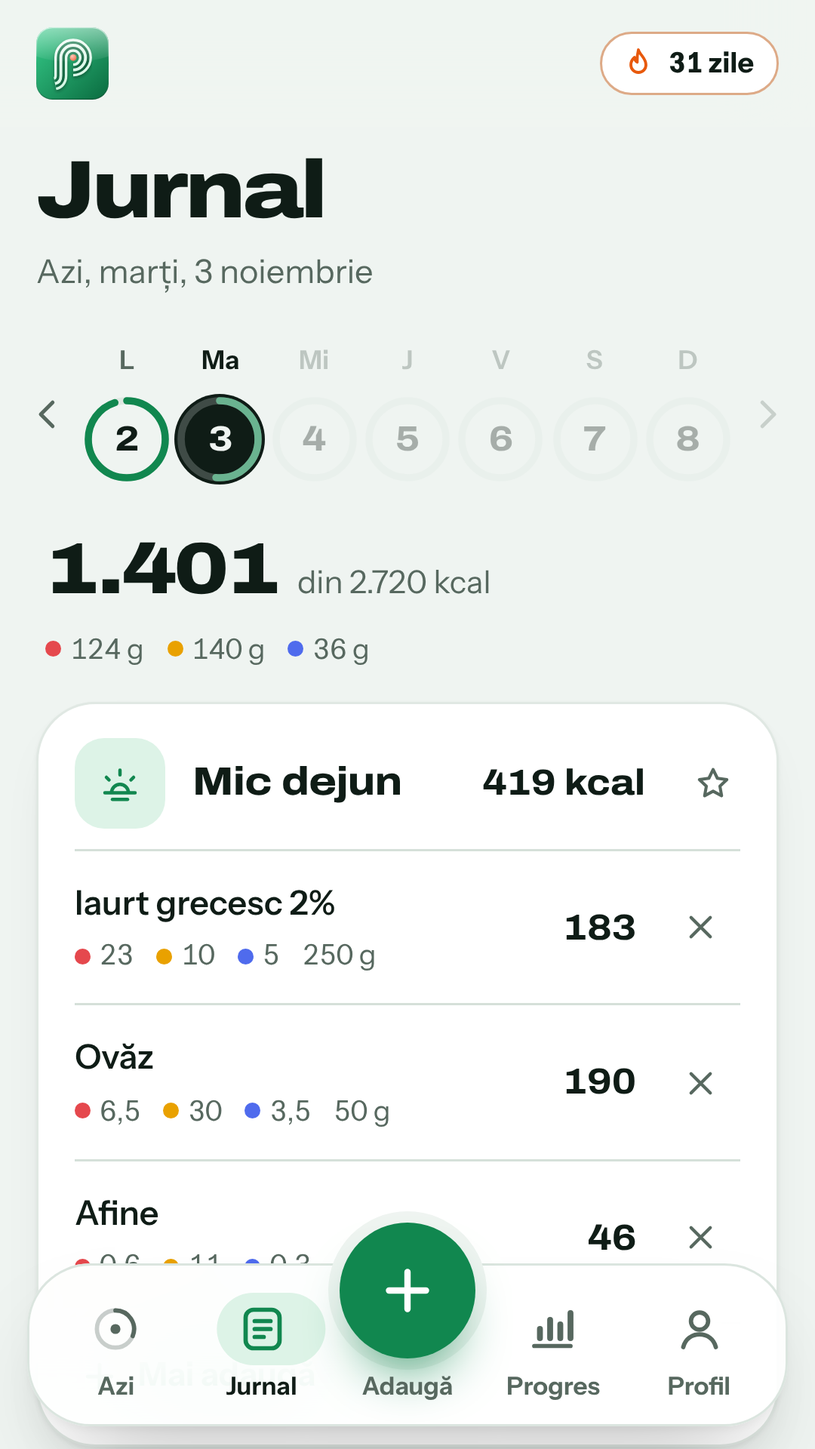
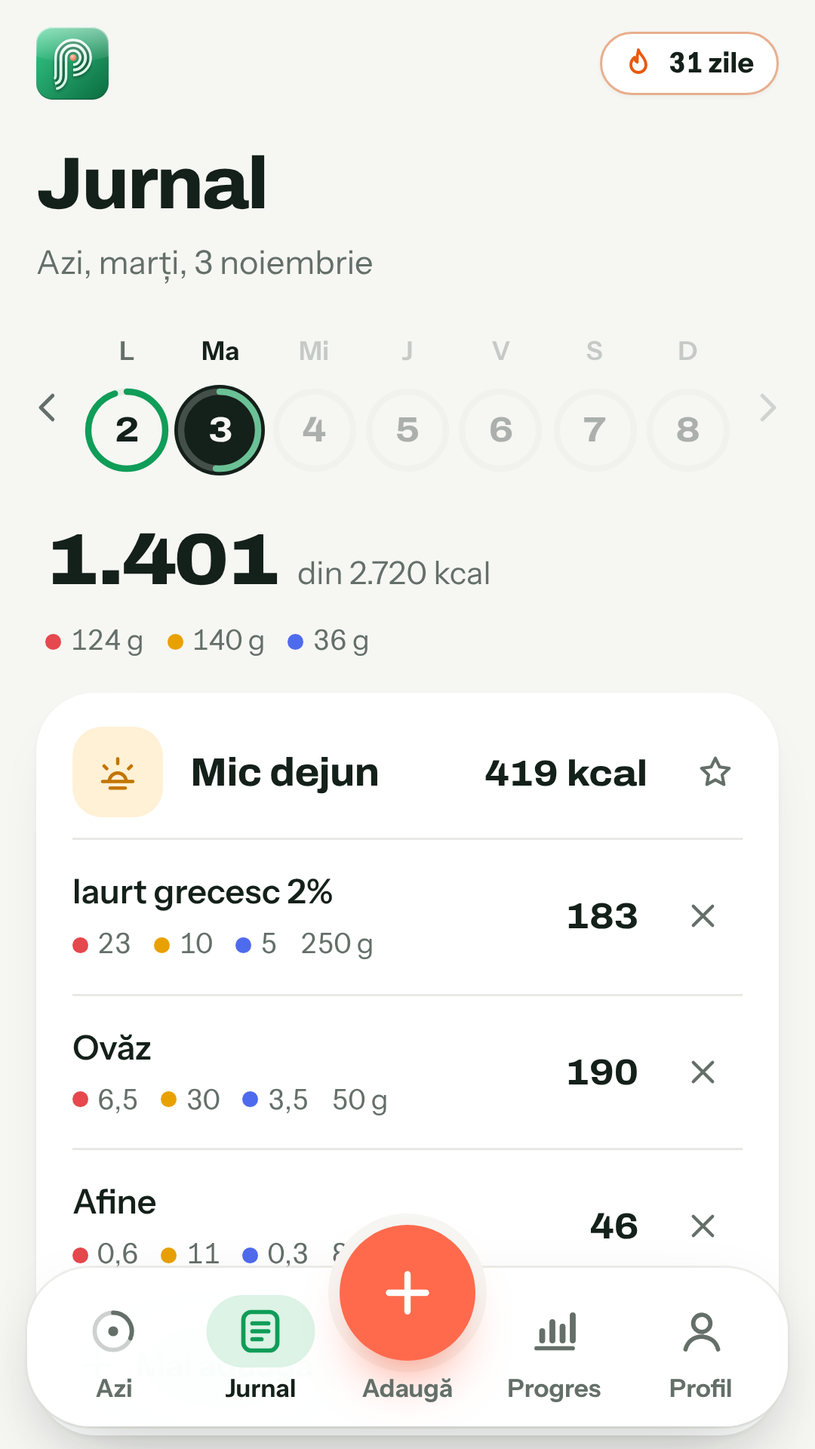
Design Proaspăt rafinat cu cadranul de calorii
Caloriile zilei sunt acum un cadran desenat ca logoul: inel verde,
punctul coral la capăt și liniuțe care se aprind pe măsură ce mănânci.
La deschidere cadranul se umple și cifra numără până la valoare; o
atingere comută între rămase, mâncate și procent, iar alegerea rămâne.
Macronutrienții sunt trei cadrane mici.

Fundal alb cald, carduri cu umbre fine în loc de chenare, o culoare
pentru fiecare masă (și în jurnal), butonul de adăugare coral în temele
casei, grafic de progres cu bare subțiri, profilul pe card alb. Fiecare
temă își pune pe cadran culoarea punctului din logo.

Capturile pentru magazine sunt refăcute.

Claude-Session: https://claude.ai/code/session_01THEXYzYb5U7JoghRZLky4L

diff --git a/js/app.js b/js/app.js
@@ -45,8 +45,8 @@ const THEMES = {
     light:{ bg:'#F4F2F0', surface:'#FFFFFF', sunk:'#EAE6E2', ink:'#1A1512', muted:'#6B6058', line:'#E2DCD6', track:'#ECE7E2', kcal:'#DD4A14', 'kcal-soft':'#FFE6DB', 'on-kcal':'#FFFFFF', prot:'#D6336C', carb:'#F2B705', fat:'#159A8C', water:'#2D8FD8', over:'#B3261E', 'toast-bg':'#1A1512', 'toast-fg':'#F4EEE9', 'toast-act':'#FFB38F' },
     dark:{ bg:'#100D0B', surface:'#1B1714', sunk:'#25201C', ink:'#F4EEE9', muted:'#A39A92', line:'#2F2925', track:'#2C2622', kcal:'#FF6B33', 'kcal-soft':'#3A2218', 'on-kcal':'#160F0B', prot:'#FF5C8D', carb:'#FFCB2E', fat:'#34C7B5', water:'#5AB2F2', over:'#FF5A4E', 'toast-bg':'#F4EEE9', 'toast-fg':'#1A1512', 'toast-act':'#C2410C' } },
   proaspat: { t:'Proaspăt', d:'verde și coral, sănătos', free:true, logo:{ bg1:'#36CC8A', bg2:'#0A6B3F', s1:'#FFFFFF', s2:'#CDF5DF', dot:'#F0603A', dot2:'#FFC3AF' },
-    light:{ bg:'#EFF4F1', surface:'#FFFFFF', sunk:'#E2EAE5', ink:'#0F1C16', muted:'#57685F', line:'#D5E0D9', track:'#DFE8E2', kcal:'#11874F', 'kcal-soft':'#DDF3E7', 'on-kcal':'#FFFFFF', prot:'#E5484D', carb:'#E9A100', fat:'#4F6BED', water:'#14A3C7', over:'#E8590C', 'toast-bg':'#0F1C16', 'toast-fg':'#E9F2EC', 'toast-act':'#8FE3B5' },
-    dark:{ bg:'#0A110E', surface:'#131C17', sunk:'#1A2620', ink:'#E9F2EC', muted:'#8FA398', line:'#22302A', track:'#21302A', kcal:'#3DD68C', 'kcal-soft':'#173426', 'on-kcal':'#06120C', prot:'#FF6B6F', carb:'#FFC233', fat:'#7D93FF', water:'#4CCFEA', over:'#FF8A3D', 'toast-bg':'#E9F2EC', 'toast-fg':'#0F1C16', 'toast-act':'#11874F' } },
+    light:{ bg:'#F6F6F3', surface:'#FFFFFF', sunk:'#EFF0EC', ink:'#14201A', muted:'#646F69', line:'#E8E9E4', track:'#E9EBE6', kcal:'#0F9D58', 'kcal-soft':'#DCF3E6', 'on-kcal':'#FFFFFF', prot:'#E5484D', carb:'#E9A100', fat:'#4F6BED', water:'#14A3C7', over:'#E8590C', 'toast-bg':'#0B1410', 'toast-fg':'#E9F2EC', 'toast-act':'#8FE3B5' },
+    dark:{ bg:'#0C0F0E', surface:'#161A18', sunk:'#1E2320', ink:'#EEF3EF', muted:'#94A19A', line:'#242B27', track:'#232A26', kcal:'#4ADE8E', 'kcal-soft':'#123222', 'on-kcal':'#03100A', prot:'#FF6B78', carb:'#FFC54D', fat:'#8296FF', water:'#4CCFEA', over:'#FF8A3D', 'toast-bg':'#ECF4EF', 'toast-fg':'#0B1410', 'toast-act':'#0E9C59' } },
   premium: { t:'Regal', d:'bleumarin și auriu, calm', logo:{ bg1:'#2E3F8A', bg2:'#0A0F2E', chrome:'blue', glow:'#6F84FF', dot:'#C2902A', dot2:'#FFE7A8' },
     light:{ bg:'#F1F2F6', surface:'#FFFFFF', sunk:'#E6E8EF', ink:'#141A33', muted:'#5D6580', line:'#DADDE7', track:'#E3E6EE', kcal:'#1F2C66', 'kcal-soft':'#E4E7F3', 'on-kcal':'#FFFFFF', prot:'#C2416B', carb:'#C9972B', fat:'#2F8F7E', water:'#3B82C4', over:'#E8590C', 'toast-bg':'#141A33', 'toast-fg':'#F3F1EA', 'toast-act':'#E3C26B' },
     dark:{ bg:'#0A0D1A', surface:'#131829', sunk:'#1B2136', ink:'#EEF0F7', muted:'#9298B0', line:'#252C44', track:'#232A40', kcal:'#A8B6FF', 'kcal-soft':'#232B4D', 'on-kcal':'#0A0D1A', prot:'#F07198', carb:'#E3B652', fat:'#4CC2AA', water:'#62A8E8', over:'#FF8A4C', 'toast-bg':'#EEF0F7', 'toast-fg':'#141A33', 'toast-act':'#1F2C66' } },
@@ -161,7 +161,10 @@ function themeCss(id){
   const t = THEMES[id]; if (!t) return '';
   if (!t.light) return '';
   const d = tokCss(liftDark(t.dark, shadeAmt()));
-  return ':root{' + tokCss(t.light) + '}@media (prefers-color-scheme: dark){:root:not([data-theme="light"]){' + d + 'color-scheme:dark}}:root[data-theme="dark"]{' + d + 'color-scheme:dark}';
+  // the logo's dot colour rides the dial; the house themes use it for the main action too
+  const warm = id === 'proaspat' || id === 'craciun';
+  const extra = '--dot:' + (t.logo.dot || '#FF6A4D') + ';' + (warm ? '--act:#FF6A4D;--on-act:#FFFFFF;' : '');
+  return ':root{' + tokCss(t.light) + extra + '}@media (prefers-color-scheme: dark){:root:not([data-theme="light"]){' + d + 'color-scheme:dark}}:root[data-theme="dark"]{' + d + 'color-scheme:dark}';
 }
 const P_PATH = 'M 26 78 C 31 77 34 73 34 67 L 34 42 A 17 17 0 1 1 51 59';
 const SHEEN_PATH = 'M 0 22.5 A 22.5 22.5 0 0 1 22.5 0 L 77.5 0 A 22.5 22.5 0 0 1 100 22.5 L 100 40 C 72 50 28 50 0 40 Z';
@@ -547,7 +550,7 @@ const S = {
   theme: 'proaspat', isOwner: true, previewing: false, plan: 'year', tier: 'plus', unsubs: [],
   appearance: lsGet('portia-appearance') || 'auto', darkShade: lsGet('portia-dark') || 'noapte', hostTheme: null, modeSet: null,
   library: { recipes: [], favorites: [], reports: [], products: [] }, bc: null, bcCtl: null, libRef: null, mini: null, rdraft: null, rctl: null, repCtl: null,
-  screen: '', lastMain: 'azi', scrollY: {}, heroDrawn: false, profSec: null, profScroll: 0, hero: null, heroRaf: 0
+  screen: '', lastMain: 'azi', scrollY: {}, heroDrawn: false, dialMode: [0, 1, 2].includes(lsGet('portia-dial')) ? lsGet('portia-dial') : 0, profSec: null, profScroll: 0, hero: null, heroRaf: 0
 };
 function fallbackToLocal(){
   if (S.mode !== 'cloud') return;
@@ -2805,29 +2808,55 @@ function renderHero(){
   const nb = S.loaded && S.newBadge && Date.now() < S.newBadge.until ? S.newBadge : null;
   const T = targetsFor(S.view), t = dayTotals(S.days[S.view]);
   const rem = T.kcal - t.kcal, over = rem < 0;
-  const R = 52, C = 2 * Math.PI * R, frac = T.kcal ? Math.min(1, t.kcal / T.kcal) : 0;
+  const frac = T.kcal ? Math.min(1, t.kcal / T.kcal) : 0;
   const pct = T.kcal ? Math.round(t.kcal / T.kcal * 100) : 0;
   const remP = Math.round(T.protein - t.protein);
   const showIdeas = !S.aiOff && S.view === todayKey() && rem > 150;
   const dayChip = T.type ? '<button class="hc-chip daytype ' + T.type + '" data-action="toggle-daytype" aria-label="' + (T.type === 'train' ? 'Zi de sală' : 'Zi de pauză') + '. Atinge ca să schimbi tipul zilei."><i></i>' + (T.type === 'train' ? 'Zi de sală · +' + fmt(T.delta) : 'Zi de pauză · −' + fmt(-T.delta)) + ' kcal</button>' : '';
-  const first = !S.heroDrawn && frac > 0; if (frac > 0) S.heroDrawn = true;
-  el.className = 'hero-card' + (over ? ' is-over' : '') + (first ? ' first' : '');
+  const D = dialFace(S.dialMode, { rem, over, eaten: t.kcal, target: T.kcal, pct });
+  el.className = 'hero-card' + (over ? ' is-over' : '');
   el.innerHTML =
-    '<div class="hc-top"><span class="hc-label">' + (over ? 'Peste țintă' : 'Calorii rămase') + '</span>' + dayChip + '</div>' +
+    (dayChip || nb ? '<div class="hc-top">' + dayChip + '</div>' : '') +
     (nb ? '<button class="newbadge" data-action="open-badges">' + bIcon(nb.icon, 18) + '<span>' + (nb.many ? 'Ai îndeplinit <b>' + nb.many + ' provocări</b> noi' : 'Provocare îndeplinită: <b>' + esc(nb.t) + '</b>') + '</span><em>Vezi</em></button>' : '') +
-    '<div class="hc-main">' +
-      '<div class="hc-num"><span class="big-num">' + (over ? '+' : '') + fmt(Math.abs(rem)) + '</span><span class="hc-sub"><b>' + fmt(t.kcal) + '</b> din <b>' + fmt(T.kcal) + '</b> kcal</span><span class="hc-kj">Ținta în kJ: ' + fmt(T.kcal * 4.184) + '</span></div>' +
-      '<div class="ringwrap"><svg viewBox="0 0 120 120" aria-hidden="true"><defs><linearGradient id="hcGrad" x1="0" y1="1" x2="1" y2="0"><stop offset="0" style="stop-color:var(--hc-acc2)"/><stop offset="1" style="stop-color:var(--hc-acc)"/></linearGradient></defs>' +
-        '<circle class="r-trk" cx="60" cy="60" r="' + R + '"/>' +
-        (frac > 0 ? '<circle class="r-val" cx="60" cy="60" r="' + R + '" stroke-dasharray="' + C.toFixed(2) + '" stroke-dashoffset="' + (C * (1 - frac)).toFixed(2) + '" style="--c0:' + C.toFixed(2) + '"/>' : '') +
-      '</svg><div class="ring-center"><b>' + pct + '<small>%</small></b><span>din țintă</span></div></div>' +
-    '</div>' +
-    '<div class="hc-bars">' + macroBar('p', 'Proteine', t.protein, T.protein) + macroBar('c', 'Glucide', t.carbs, T.carbs) + macroBar('f', 'Grăsimi', t.fat, T.fat) + '</div>' +
+    '<button class="dial" data-action="dial" aria-label="' + esc(D.aria) + '. Atinge ca să vezi ' + DIAL_NEXT[S.dialMode] + '.">' +
+      '<svg viewBox="0 0 240 240" aria-hidden="true" style="--p:' + frac.toFixed(4) + '">' +
+        '<defs><linearGradient id="dialGrad" x1="0" y1="0" x2="1" y2="1"><stop offset="0" style="stop-color:var(--hc-acc)"/><stop offset="1" style="stop-color:var(--hc-acc2)"/></linearGradient></defs>' +
+        DIAL_TICKS +
+        '<circle class="r-trk" cx="120" cy="120" r="96"/>' +
+        '<circle class="r-val" cx="120" cy="120" r="96"/>' +
+        '<g class="d-knob"><circle cx="120" cy="24" r="9"/><circle class="d-knob-in" cx="120" cy="24" r="3.4"/></g>' +
+      '</svg>' +
+      '<span class="d-center"><span class="hc-label d-label">' + D.label + '</span><b class="big-num">' + D.big + '</b><span class="hc-sub">' + D.sub + '</span>' +
+        '<span class="d-dots" aria-hidden="true">' + [0, 1, 2].map(i => '<i' + (i === S.dialMode ? ' class="on"' : '') + '></i>').join('') + '</span></span>' +
+    '</button>' +
+    '<div class="hc-macros">' + macroRing('p', 'Proteine', t.protein, T.protein) + macroRing('c', 'Glucide', t.carbs, T.carbs) + macroRing('f', 'Grăsimi', t.fat, T.fat) + '</div>' +
     (showIdeas ? '<div class="hc-foot"><p>' + (remP > 0 ? 'Mai ai ' + fmt(remP) + ' g proteine de luat azi.' : 'Ai atins proteinele de azi.') + '</p><button class="btn hc-btn" data-action="ideas">Idei pentru ' + mealName(S.meal).toLowerCase() + '</button></div>' : '');
   const f3 = (e, t) => t ? Math.min(1, e / t) : 0;
-  heroTween(S.hero, { k: S.view, rem, pct, frac, f: [f3(t.protein, T.protein), f3(t.carbs, T.carbs), f3(t.fat, T.fat)] });
+  heroTween(S.hero, { k: S.view, mode: S.dialMode, rem, eaten: t.kcal, target: T.kcal, over, pct, frac, f: [f3(t.protein, T.protein), f3(t.carbs, T.carbs), f3(t.fat, T.fat)] });
 }
-// When the numbers change (a meal added, another day picked), count them and grow the ring and bars from where they were
+/* The dial: the day's calories as one instrument. Its ring and coral dot are the logo; ticks light up as the day fills.
+   A tap switches what the centre says: what's left, what's eaten, how much of the target. */
+const DIAL_TICKS = (() => {
+  let base = '', lit = '';
+  for (let i = 0; i < 60; i++){
+    const a = i / 60 * 2 * Math.PI, major = i % 5 === 0, r1 = major ? 106 : 109, r2 = 117;
+    const x1 = (120 + r1 * Math.sin(a)).toFixed(2), y1 = (120 - r1 * Math.cos(a)).toFixed(2), x2 = (120 + r2 * Math.sin(a)).toFixed(2), y2 = (120 - r2 * Math.cos(a)).toFixed(2);
+    const l = '<line x1="' + x1 + '" y1="' + y1 + '" x2="' + x2 + '" y2="' + y2 + '"' + (major ? ' class="mj"' : '');
+    base += l + '/>';
+    lit += l + ' style="--i:' + (i / 60).toFixed(4) + '"/>';
+  }
+  return '<g class="tk-base">' + base + '</g><g class="tk-lit">' + lit + '</g>';
+})();
+const DIAL_NEXT = ['cât ai mâncat', 'procentul din țintă', 'cât mai ai'];
+function dialFace(mode, v){
+  if (mode === 1) return { label: 'mâncate', big: fmt(v.eaten), sub: 'din <b>' + fmt(v.target) + '</b> kcal', aria: 'Ai mâncat ' + fmt(v.eaten) + ' din ' + fmt(v.target) + ' kcal' };
+  if (mode === 2) return { label: 'din țintă', big: v.pct + '<small>%</small>', sub: '<b>' + fmt(v.eaten) + '</b> din <b>' + fmt(v.target) + '</b> kcal', aria: 'Ai ajuns la ' + v.pct + '% din țintă' };
+  return { label: v.over ? 'peste țintă' : 'rămase', big: (v.over ? '+' : '') + fmt(Math.abs(v.rem)), sub: '<b>' + fmt(v.eaten) + '</b> din <b>' + fmt(v.target) + '</b> kcal', aria: (v.over ? 'Ești cu ' + fmt(-v.rem) + ' kcal peste țintă' : 'Mai ai ' + fmt(v.rem) + ' kcal') + ', ai mâncat ' + fmt(v.eaten) + ' din ' + fmt(v.target) };
+}
+const dialValue = (mode, v) => mode === 1 ? v.eaten : mode === 2 ? v.pct : v.rem;
+function dialNumber(mode, n){ return mode === 2 ? n + '<small>%</small>' : (n < 0 ? '+' : '') + fmt(Math.abs(n)); }
+// When the numbers change (a meal added, another day picked), count them and turn the dial from where it was.
+// The first time the day is shown, the dial sweeps up from zero.
 function heroTween(prev, cur){
   S.hero = cur;
   // crossing a target by adding food today, not by opening another day
@@ -2835,36 +2864,43 @@ function heroTween(prev, cur){
     if (prev.f[0] < 1 && cur.f[0] >= 1) cheer('protein');
     else if (prev.pct < 95 && cur.pct >= 95 && cur.pct <= 105) cheer('kcal');
   }
-  if (!prev || reduceMotion()) return;
-  const el = $('#hero'), num = el.querySelector('.big-num'), pc = el.querySelector('.ring-center b');
-  if (prev.rem !== cur.rem || prev.pct !== cur.pct){
+  if (reduceMotion()) return;
+  const el = $('#hero'), num = el.querySelector('.big-num'), svg = el.querySelector('.dial svg');
+  // the sweep waits for the journal to finish loading, so it plays once, on the numbers that stay
+  let from = prev;
+  if (!S.heroDrawn && S.loaded){ S.heroDrawn = true; from = { mode: cur.mode, rem: cur.target, eaten: 0, pct: 0, frac: 0, f: [0, 0, 0] }; }
+  if (!from) return;
+  if (from.mode !== cur.mode){ const c = el.querySelector('.d-center'); if (c){ c.classList.add('swap'); } return; }
+  const a = dialValue(cur.mode, from), b = dialValue(cur.mode, cur);
+  if (a !== b && num){
     cancelAnimationFrame(S.heroRaf);
-    const t0 = performance.now(), d = 700;
+    const t0 = performance.now(), d = prev ? 700 : 1100;
+    num.innerHTML = dialNumber(cur.mode, a);
     const step = now => {
       const k = Math.min(1, (now - t0) / d), e = 1 - Math.pow(1 - k, 3);
-      const v = Math.round(prev.rem + (cur.rem - prev.rem) * e), q = Math.round(prev.pct + (cur.pct - prev.pct) * e);
-      if (num) num.textContent = (v < 0 ? '+' : '') + fmt(Math.abs(v));
-      if (pc && pc.firstChild) pc.firstChild.nodeValue = q;
+      num.innerHTML = dialNumber(cur.mode, Math.round(a + (b - a) * e));
       if (k < 1) S.heroRaf = requestAnimationFrame(step);
     };
     S.heroRaf = requestAnimationFrame(step);
   }
-  const ring = el.querySelector('.r-val');
-  if (ring && prev.frac !== cur.frac){
-    ring.style.strokeDashoffset = (2 * Math.PI * 52 * (1 - prev.frac)).toFixed(2);
-    ring.getBoundingClientRect();
-    requestAnimationFrame(() => { ring.style.strokeDashoffset = ''; });
+  if (svg && from.frac !== cur.frac){
+    if (!prev) svg.classList.add('sweep');
+    const to = svg.style.getPropertyValue('--p');
+    svg.style.setProperty('--p', from.frac.toFixed(4)); svg.getBoundingClientRect();
+    requestAnimationFrame(() => svg.style.setProperty('--p', to));
   }
-  el.querySelectorAll('.mb-f').forEach((b, i) => {
-    if (prev.f[i] === cur.f[i]) return;
-    const to = b.style.getPropertyValue('--f');
-    b.style.setProperty('--f', prev.f[i].toFixed(3)); b.getBoundingClientRect();
-    requestAnimationFrame(() => b.style.setProperty('--f', to));
+  el.querySelectorAll('.mb-f').forEach((r, i) => {
+    if (from.f[i] === cur.f[i]) return;
+    const to = r.style.getPropertyValue('--f');
+    r.style.setProperty('--f', from.f[i].toFixed(3)); r.getBoundingClientRect();
+    requestAnimationFrame(() => r.style.setProperty('--f', to));
   });
 }
-function macroBar(key, label, eaten, target){
+function macroRing(key, label, eaten, target){
   const f = target ? Math.min(1, eaten / target) : 0, over = target && eaten > target * 1.1;
-  return '<div class="mbar m-' + key + (over ? ' is-over' : '') + '"><b>' + label + '</b><span class="mb-v">' + fmt(eaten) + '<small> / ' + fmt(target) + ' g</small></span><span class="mb-t"><span class="mb-f" style="--f:' + f.toFixed(3) + '"></span></span></div>';
+  return '<div class="mring m-' + key + (over ? ' is-over' : '') + '" role="img" aria-label="' + label + ': ' + fmt(eaten) + ' din ' + fmt(target) + ' g">' +
+    '<span class="mr-dial" aria-hidden="true"><svg viewBox="0 0 48 48"><circle class="mr-t" cx="24" cy="24" r="20"/><circle class="mb-f" cx="24" cy="24" r="20" style="--f:' + f.toFixed(3) + '"/></svg><b>' + fmt(eaten) + '</b></span>' +
+    '<span class="mr-txt" aria-hidden="true"><b>' + label + '</b><small>din ' + fmt(target) + ' g</small></span></div>';
 }
 function renderMeals(){
   const sa = $('#subAdd'); if (sa) sa.textContent = 'La ' + mealName(S.meal).toLowerCase() + (S.view === todayKey() ? ', azi' : ', ' + dayWord(S.view).toLowerCase());
@@ -2878,7 +2914,7 @@ function renderTabs(){
   });
   $$('#logger [data-pane]').forEach(p => p.hidden = p.dataset.pane !== S.tab);
   const ap = $('#askPhoto'); if (ap) ap.hidden = S.aiOff || S.photoOff;
-  $('#aiNote').hidden = !S.aiOff;
+  $('#aiNote').hidden = !S.aiOff || (NATIVE && S.noSample); // the store app has no AI yet: nothing to explain
   $('#aiNote').textContent = S.noSample ? 'Estimarea automată nu e disponibilă aici, așa că notezi valorile manual.' : 'Ai ales să nu trimiți mesele la AI, așa că notezi valorile manual. Poți porni estimările din Profil → Datele tale.';
 }
 function renderRecent(){
@@ -2977,7 +3013,7 @@ function renderWater(){
   const left = Math.max(0, target - w);
   el.innerHTML = '<div class="ww-top"><span class="ww-ic" aria-hidden="true"><svg viewBox="0 0 24 24" width="22" height="22" fill="none" stroke="currentColor" stroke-width="1.9" stroke-linejoin="round"><path d="M12 3.2c3.2 4 6 7.2 6 10.8a6 6 0 0 1-12 0c0-3.6 2.8-6.8 6-10.8z"/><path d="M9 14.2a3 3 0 0 0 3 3" stroke-linecap="round"/></svg></span>' +
       '<div class="ww-txt"><h2>Apă</h2><span>' + (left ? 'Mai ai ' + fmtL(left) + ' L' : 'Ținta de azi e atinsă') + '</span></div>' +
-      '<div class="ww-num"><b' + (w !== was ? ' class="bump"' : '') + '>' + fmtL(w) + '</b><span>din ' + fmtL(target) + ' L</span></div></div>' +
+      '<div class="ww-num"><b' + (w !== was ? ' class="bump"' : '') + '>' + fmtL(w) + '<small> L</small></b><span>din ' + fmtL(target) + ' L</span></div></div>' +
     '<div class="glasses' + (reached ? ' full' : '') + '" style="--n:' + cells + '">' + g + '</div>' +
     '<div class="ww-btns"><button class="ww-b" data-action="water-add" data-ml="-250" aria-label="Scade 250 ml"' + (w <= 0 ? ' disabled' : '') + '><svg viewBox="0 0 24 24" width="18" height="18" fill="none" stroke="currentColor" stroke-width="2.4" stroke-linecap="round" aria-hidden="true"><path d="M6 12h12"/></svg></button>' +
       '<button class="ww-b add" data-action="water-add" data-ml="250">+ 250 ml</button><button class="ww-b add" data-action="water-add" data-ml="500">+ 500 ml</button></div>';
@@ -3085,7 +3121,7 @@ function renderHistory(){
   const W_ = 336, top = 24, base = 112, left = 4, right = 332;
   const maxV = Math.max(T ? T.kcal * 1.2 : 2500, ...days.map(d => d.kcal * 1.08), 1);
   const y = v => base - (v / maxV) * (base - top);
-  const slot = (right - left) / 7, bw = Math.min(30, slot * 0.6);
+  const slot = (right - left) / 7, bw = Math.min(22, slot * 0.46);
   let bars = '';
   days.forEach((d, i) => {
     const cx = left + slot*i + slot/2;
@@ -3095,8 +3131,8 @@ function renderHistory(){
     const dt = parseKey(d.k);
     bars += '<g data-day="' + d.k + '" class="' + (sel ? 'sel' : '') + '" role="button" tabindex="0" aria-label="' + esc(dateLine(d.k)) + ': ' + fmt(d.kcal) + ' kcal">' +
       '<rect class="hit" x="' + (cx - slot/2).toFixed(1) + '" y="0" width="' + slot.toFixed(1) + '" height="150"/>' +
-      '<rect class="track" x="' + (cx - bw/2).toFixed(1) + '" y="' + top + '" width="' + bw.toFixed(1) + '" height="' + (base - top) + '" rx="7"/>' +
-      (d.kcal > 0 ? '<rect class="' + (over ? 'b-over' : 'b-ok') + '" x="' + (cx - bw/2).toFixed(1) + '" y="' + Math.min(base - 4, y(d.kcal)).toFixed(1) + '" width="' + bw.toFixed(1) + '" height="' + Math.max(4, base - y(d.kcal)).toFixed(1) + '" rx="7"/>' +
+      '<rect class="track" x="' + (cx - bw/2).toFixed(1) + '" y="' + top + '" width="' + bw.toFixed(1) + '" height="' + (base - top) + '" rx="' + (bw / 2).toFixed(1) + '"/>' +
+      (d.kcal > 0 ? '<rect class="' + (over ? 'b-over' : 'b-ok') + '" x="' + (cx - bw/2).toFixed(1) + '" y="' + Math.min(base - 4, y(d.kcal)).toFixed(1) + '" width="' + bw.toFixed(1) + '" height="' + Math.max(bw, base - y(d.kcal)).toFixed(1) + '" rx="' + (bw / 2).toFixed(1) + '"/>' +
         '<text class="hv" x="' + cx.toFixed(1) + '" y="' + (Math.min(base - 4, y(d.kcal)) - 6).toFixed(1) + '" text-anchor="middle">' + fmt(d.kcal) + '</text>' : '') +
       '<text class="hl" x="' + cx.toFixed(1) + '" y="' + (base + 18) + '" text-anchor="middle">' + DAY_ABBR[dt.getDay()] + '</text>' +
       '<text class="hd" x="' + cx.toFixed(1) + '" y="' + (base + 32) + '" text-anchor="middle">' + dt.getDate() + '</text></g>';
@@ -3568,12 +3604,15 @@ function playCheer(kind){
   const hero = $('#hero'); if (!hero || reduceMotion()) return;
   hero.classList.remove('cheer'); hero.getBoundingClientRect(); hero.classList.add('cheer');
   setTimeout(() => hero.classList.remove('cheer'), 1600);
-  const wrap = hero.querySelector('.ringwrap');
+  const wrap = hero.querySelector('.dial');
   if (wrap){
+    // sparks leave from the dial's ring, outwards
     const burst = document.createElement('span'); burst.className = 'burst'; burst.setAttribute('aria-hidden', 'true');
-    for (let i = 0; i < 18; i++){
-      const a = (i / 18) * Math.PI * 2 + Math.random() * 0.3, r = 62 + Math.random() * 34;
+    const R0 = wrap.offsetWidth * 0.4;
+    for (let i = 0; i < 22; i++){
+      const a = (i / 22) * Math.PI * 2 + Math.random() * 0.25, r = R0 + 26 + Math.random() * 30;
       const s = document.createElement('i');
+      s.style.setProperty('--x0', (Math.cos(a) * R0).toFixed(1) + 'px'); s.style.setProperty('--y0', (Math.sin(a) * R0).toFixed(1) + 'px');
       s.style.setProperty('--dx', (Math.cos(a) * r).toFixed(1) + 'px'); s.style.setProperty('--dy', (Math.sin(a) * r).toFixed(1) + 'px');
       s.style.setProperty('--d', Math.round(Math.random() * 90) + 'ms'); s.style.setProperty('--s', (0.6 + Math.random() * 0.7).toFixed(2));
       s.className = 'b' + (i % 3);
@@ -3723,6 +3762,7 @@ function bindStatic(){
       case 'bc-save': saveProduct(); break;
       case 'prod-del': delProduct(b.dataset.code); break;
       case 'toggle-daytype': toggleDayType(); break;
+      case 'dial': S.dialMode = (S.dialMode + 1) % 3; lsSet('portia-dial', S.dialMode); buzz('tick'); renderHero(); break;
       case 'cycle-on': setCycle({ on: !cycleOf().on }); break;
       case 'cycle-day': { const dd = Number(b.dataset.d); const days = cycleOf().days.slice(); const ix = days.indexOf(dd); if (ix >= 0) days.splice(ix, 1); else days.push(dd); setCycle({ days }); break; }
       case 'cycle-extra': setCycle({ extra: Number(b.dataset.x) }); break;

diff --git a/css/styles.css b/css/styles.css
@@ -925,3 +925,127 @@ html[data-native] button,html[data-native] .tab,html[data-native] .chip,html[dat
   .tab-ind,.tabbar,.sheet.ghost{transition:none;animation:none}
   .sheet.ghost{display:none}
 }
+
+/* ================= Proaspăt, rafinat: warm white, soft depth, the day as one dial ================= */
+/* Surfaces lift off the page with soft shadows instead of outlines. The calories are one dial drawn like the logo:
+   a green ring with the coral dot at its end. Each meal has its own colour; coral marks the one main action. */
+@property --p{syntax:"<number>";inherits:true;initial-value:0}
+@property --f{syntax:"<number>";inherits:false;initial-value:0}
+:root{--lift:0 1px 2px rgb(20 32 26 / .04),0 12px 30px -16px rgb(20 32 26 / .18);--lift-hi:0 1px 2px rgb(20 32 26 / .05),0 22px 44px -22px rgb(20 32 26 / .28);--dot:#FF6A4D;--act:var(--kcal);--on-act:#FFFFFF;
+  --m1:#FFF1D6;--m1i:#C27500;--m2:#DDF5E6;--m2i:#0F8A4F;--m3:#FFE4DD;--m3i:#DE4A2C;--m4:#E7E9FF;--m4i:#4B55D6}
+:root[data-theme="dark"]{--lift:none;--lift-hi:none;--m1:#382A10;--m1i:#FFC163;--m2:#123122;--m2i:#6EE7A8;--m3:#3A1E17;--m3i:#FF9A84;--m4:#1F2246;--m4i:#A3AAFF}
+@media (prefers-color-scheme: dark){:root:not([data-theme="light"]){--lift:none;--lift-hi:none;--m1:#382A10;--m1i:#FFC163;--m2:#123122;--m2i:#6EE7A8;--m3:#3A1E17;--m3i:#FF9A84;--m4:#1F2246;--m4i:#A3AAFF}}
+
+h1{font-stretch:104%;font-weight:800;font-size:clamp(32px,9vw,38px);letter-spacing:-.025em}
+h2{font-stretch:104%;font-weight:750}
+.panel,.mt,.askbar,.meal-card{border:0;box-shadow:var(--lift);border-radius:26px}
+:root[data-theme="dark"] :is(.panel,.mt,.askbar,.meal-card){border:1px solid var(--line)}
+@media (prefers-color-scheme: dark){:root:not([data-theme="light"]) :is(.panel,.mt,.askbar,.meal-card){border:1px solid var(--line)}}
+.streak{box-shadow:var(--lift);border-color:transparent}
+
+/* week strip: thinner rings */
+.wr-t,.wr-v{stroke-width:2.8}
+
+/* hero: a white card holding the dial and the three macros */
+.hero-card{--hc-ink:var(--ink);--hc-muted:var(--muted);--hc-line:var(--track);--hc-acc:color-mix(in srgb,var(--kcal) 45%,#FFFFFF);--hc-acc2:var(--kcal);
+  background:var(--surface);color:var(--ink);border-radius:32px;padding:16px 16px 18px;box-shadow:var(--lift-hi);overflow:hidden}
+:root[data-theme="dark"] .hero-card{border:1px solid var(--line)}
+@media (prefers-color-scheme: dark){:root:not([data-theme="light"]) .hero-card{border:1px solid var(--line)}}
+.hero-card::before{inset:0;background:radial-gradient(60% 46% at 50% 36%,color-mix(in srgb,var(--kcal) 11%,transparent),transparent 72%);-webkit-mask-image:none;mask-image:none}
+.hero-card.is-empty{padding:24px 22px}
+.hero-card .hc-top{justify-content:center;min-height:0;margin-bottom:0}
+.hero-card .hc-chip{background:var(--sunk);border:0;color:var(--ink)}
+.hero-card .btn.hc-btn,.hero-card .btn.hc-cta{background:var(--ink);color:var(--surface)}
+.hero-card .newbadge{background:var(--sunk);border-color:transparent;color:var(--ink)}
+
+.dial{position:relative;display:block;width:min(74vw,290px);aspect-ratio:1;margin:6px auto 4px;padding:0;border:0;border-radius:50%;background:none;color:inherit;cursor:pointer;-webkit-tap-highlight-color:transparent;transition:transform .18s cubic-bezier(.2,.8,.2,1)}
+.dial:active{transform:scale(.975)}
+.dial svg{position:absolute;inset:0;width:100%;height:100%;overflow:visible;--C:603.19;transition:--p .8s cubic-bezier(.2,.8,.2,1)}
+.dial svg.sweep{transition-duration:1.3s;transition-timing-function:cubic-bezier(.16,.84,.24,1)}
+.dial .tk-base line{stroke:var(--track);stroke-width:1.7;stroke-linecap:round}
+.dial .tk-lit line{stroke:var(--kcal);stroke-width:1.7;stroke-linecap:round;opacity:clamp(0,calc((var(--p) - var(--i)) * 600),1)}
+.dial line.mj{stroke-width:2.6}
+.dial .r-trk{fill:none;stroke:var(--sunk);stroke-width:12}
+.dial .r-val{fill:none;stroke:url(#dialGrad);stroke-width:12;stroke-linecap:round;transform:rotate(-90deg);transform-origin:120px 120px;stroke-dasharray:var(--C);stroke-dashoffset:calc(var(--C) - var(--p) * var(--C));filter:drop-shadow(0 4px 10px color-mix(in srgb,var(--kcal) 35%,transparent))}
+/* the logo's coral dot rides the end of the arc */
+.dial .d-knob{transform:rotate(calc(var(--p) * 360deg));transform-origin:120px 120px}
+.dial .d-knob circle{fill:var(--dot);filter:drop-shadow(0 2px 6px color-mix(in srgb,var(--dot) 60%,transparent))}
+.dial .d-knob .d-knob-in{fill:#FFFFFF;filter:none;opacity:.92}
+.hero-card.is-over .dial .r-val{stroke:var(--over);filter:drop-shadow(0 4px 10px color-mix(in srgb,var(--over) 35%,transparent))}
+.hero-card.is-over .dial .tk-lit line{stroke:var(--over)}
+.d-center{position:absolute;inset:19%;display:flex;flex-direction:column;align-items:center;justify-content:center;text-align:center;gap:1px}
+.d-center.swap{animation:dialSwap .32s cubic-bezier(.2,.8,.2,1)}
+@keyframes dialSwap{from{opacity:0;transform:translateY(6px) scale(.97)}}
+.hero-card .d-label{font-size:13.5px;font-weight:600;color:var(--muted)}
+.hero-card .big-num{font-stretch:96%;font-weight:820;font-size:clamp(50px,15vw,64px);line-height:1;letter-spacing:-.04em;color:var(--ink);margin:3px 0 5px}
+.hero-card .big-num small{font-size:.48em;font-weight:700;letter-spacing:0;margin-left:2px;color:var(--muted)}
+.hero-card.is-over .big-num{color:var(--over)}
+.hero-card .hc-sub{margin:0;font-size:13px;color:var(--muted)}
+.hero-card .hc-sub b{color:var(--ink)}
+.d-dots{display:flex;gap:5px;margin-top:10px}
+.d-dots i{width:5px;height:5px;border-radius:3px;background:var(--track);transition:background-color .2s,width .25s cubic-bezier(.2,.8,.2,1)}
+.d-dots i.on{width:15px;background:var(--kcal)}
+
+/* macros: three small dials under the big one */
+.hc-macros{display:grid;grid-template-columns:repeat(3,minmax(0,1fr));gap:6px;margin-top:12px;padding-top:16px;border-top:1px solid var(--line)}
+.mring{display:flex;align-items:center;gap:9px;min-width:0;justify-content:center}
+.mr-dial{position:relative;flex:none;width:46px;height:46px;display:grid;place-items:center}
+.mr-dial svg{position:absolute;inset:0;width:100%;height:100%;transform:rotate(-90deg)}
+.mr-t{fill:none;stroke:var(--sunk);stroke-width:5}
+.mring .mb-f{fill:none;stroke:var(--c);stroke-width:5;stroke-linecap:round;stroke-dasharray:125.66;stroke-dashoffset:calc(125.66 - var(--f) * 125.66);transition:--f .8s cubic-bezier(.2,.8,.2,1)}
+.mr-dial b{position:relative;font-family:var(--f-display);font-stretch:92%;font-weight:760;font-size:15px;line-height:1;font-variant-numeric:tabular-nums;letter-spacing:-.02em}
+.mr-txt{display:flex;flex-direction:column;min-width:0;line-height:1.25}
+.mr-txt b{font-size:12.5px;font-weight:650}
+.mr-txt small{font-size:11.5px;color:var(--muted);white-space:nowrap}
+.mring.m-p{--c:var(--prot)} .mring.m-c{--c:var(--carb)} .mring.m-f{--c:var(--fat)}
+.mring.is-over{--c:var(--over)}
+@media (max-width:370px){.mring{flex-direction:column;gap:5px;text-align:center}.mr-txt{align-items:center}}
+
+/* each meal has its own colour, here and in the journal */
+.mt:nth-child(1) .mt-ic,#meal-breakfast .mc-ic{background:var(--m1);color:var(--m1i)}
+.mt:nth-child(2) .mt-ic,#meal-lunch .mc-ic{background:var(--m2);color:var(--m2i)}
+.mt:nth-child(3) .mt-ic,#meal-snack .mc-ic{background:var(--m3);color:var(--m3i)}
+.mt:nth-child(4) .mt-ic,#meal-dinner .mc-ic{background:var(--m4);color:var(--m4i)}
+.mt:not(.has) .mt-ic{filter:saturate(.35);opacity:.8}
+
+/* the one main action: coral in the house theme, the theme's colour elsewhere */
+.tab-add .ti{background:var(--act);color:var(--on-act);box-shadow:0 14px 26px -12px var(--act),0 0 0 5px var(--bg)}
+.tab-add[aria-current="page"] .ti{background:var(--ink);color:var(--bg)}
+.tabbar{border:0;box-shadow:0 12px 36px -14px rgb(20 32 26 / .32),0 0 0 1px color-mix(in srgb,var(--line) 70%,transparent);background:color-mix(in srgb,var(--surface) 88%,transparent)}
+.tab-ind{background:var(--kcal-soft)}
+.askbar{padding:7px}
+.ask-main{font-weight:700}
+
+/* the moment a target is reached: sparks leave the dial's ring */
+.burst i{animation-name:sparkRing}
+@keyframes sparkRing{0%{opacity:1;transform:translate(var(--x0),var(--y0)) scale(var(--s))}70%{opacity:1}100%{opacity:0;transform:translate(var(--dx),var(--dy)) scale(0)}}
+.hero-card.cheer .dial .r-val{animation:ringCheer 1.4s cubic-bezier(.2,.8,.2,1)}
+.hero-card.cheer .big-num{animation:pop .6s cubic-bezier(.3,1.6,.5,1)}
+.hero-card .d-label.cheering{color:var(--kcal);font-weight:700;white-space:nowrap}
+
+/* the ask bar is one white pill, like a ride app's destination field */
+.ask-main{background:transparent}
+.ask-ic{background:var(--sunk)}
+.ww-num b small{font-size:.5em;font-weight:700;color:var(--muted);letter-spacing:0}
+
+/* progress chart: slim capsules, green inside the target, coral above it */
+.chart .track{fill:var(--sunk)}
+.chart .b-ok{fill:url(#barG)}
+.chart .b-over{fill:color-mix(in srgb,var(--over) 82%,#FFFFFF)}
+.chart .sel .track{fill:var(--kcal-soft)}
+.chart .hv{font-size:10px;font-weight:650}
+.hstats dd{font-stretch:100%;font-weight:780}
+
+/* profile: the same white card as the dial, with the logo */
+.prof-card{background:var(--surface);color:var(--ink);box-shadow:var(--lift-hi)}
+.prof-card::before,.prof-card::after{display:none}
+:root[data-theme="dark"] .prof-card{border:1px solid var(--line)}
+@media (prefers-color-scheme: dark){:root:not([data-theme="light"]) .prof-card{border:1px solid var(--line)}}
+.prof-card .pc-id span,.prof-card p{color:var(--muted)}
+.pc-av{filter:drop-shadow(0 8px 14px rgb(20 32 26 / .18))}
+.pc-stats{border-top-color:var(--line)}
+.pc-stats dt,.pc-stats dd small{color:var(--muted)}
+.prof-card .btn.ghost{color:var(--ink);border-color:var(--line);background:var(--sunk)}
+
+@media (min-width:900px){.dial{width:min(30vw,310px)}}
+@media (prefers-reduced-motion: reduce){.dial svg,.mring .mb-f,.d-center.swap{transition:none;animation:none}}
